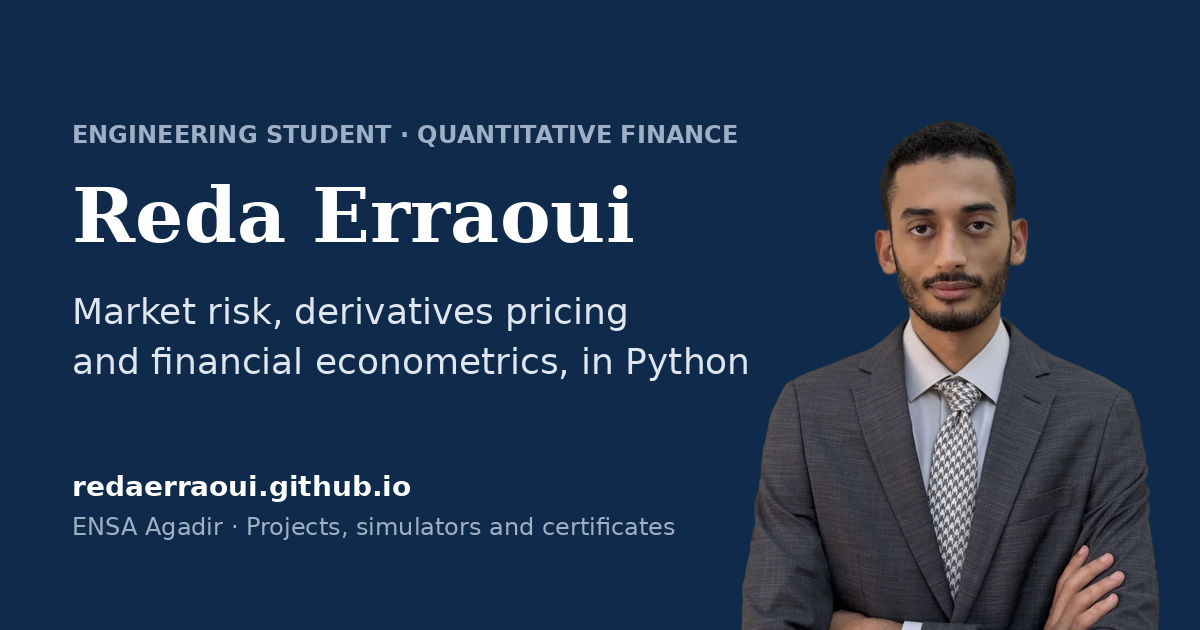
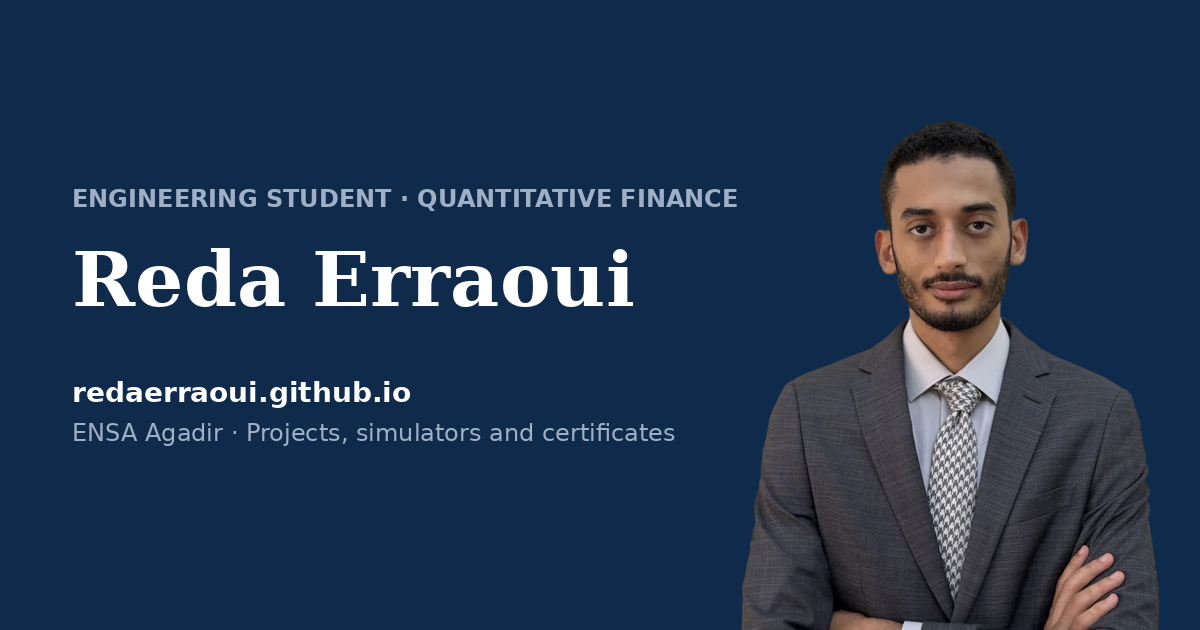
Retire la tagline de l'image OG (FR/EN) et passe le cache à v=3

Changed region(s): [[0.0617, 0.2714, 0.6167, 0.7238], [0.0617, 0.181, 0.6167, 0.2413], [0.0617, 0.754, 0.555, 0.8746]]

diff --git a/projets/arma-garch-var.html b/projets/arma-garch-var.html
@@ -15,7 +15,7 @@
 <meta property="og:title" content="Volatilité et Value-at-Risk de Managem par ARMA–GARCH · Reda Erraoui">
 <meta property="og:description" content="306 mois de cours : volatilité persistante (demi-vie d’environ 6 mois), effet de levier significatif, et une fuite d’information détectée dans la comparaison avec un réseau de neurones.">
 <meta property="og:url" content="https://redaerraoui.github.io/projets/arma-garch-var.html">
-<meta property="og:image" content="https://redaerraoui.github.io/assets/og-fr.png?v=2">
+<meta property="og:image" content="https://redaerraoui.github.io/assets/og-fr.png?v=3">
 <meta property="og:image:width" content="1200">
 <meta property="og:image:height" content="630">
 <meta property="og:locale" content="fr_FR">

diff --git a/projets/ipo-casablanca.html b/projets/ipo-casablanca.html
@@ -15,7 +15,7 @@
 <meta property="og:title" content="Performance des introductions en Bourse à Casablanca · Reda Erraoui">
 <meta property="og:description" content="9 introductions de 2020 à 2025 : surperformance de +31,5 % à 6 mois par rapport au MASI, liée au taux de sursouscription (r = 0,77), mais fragile sans la plus grosse opération.">
 <meta property="og:url" content="https://redaerraoui.github.io/projets/ipo-casablanca.html">
-<meta property="og:image" content="https://redaerraoui.github.io/assets/og-fr.png?v=2">
+<meta property="og:image" content="https://redaerraoui.github.io/assets/og-fr.png?v=3">
 <meta property="og:image:width" content="1200">
 <meta property="og:image:height" content="630">
 <meta property="og:locale" content="fr_FR">

diff --git a/simulateurs/stationnarite-managem.html b/simulateurs/stationnarite-managem.html
@@ -15,7 +15,7 @@
 <meta property="og:title" content="Simulateur · Reda Erraoui">
 <meta property="og:description" content="Portfolio de Reda Erraoui, élève ingénieur en finance quantitative : risque de marché, produits dérivés et économétrie financière en Python. Projets, simulateurs interactifs et certificats vérifiables.">
 <meta property="og:url" content="https://redaerraoui.github.io/simulateurs/stationnarite-managem.html">
-<meta property="og:image" content="https://redaerraoui.github.io/assets/og-fr.png?v=2">
+<meta property="og:image" content="https://redaerraoui.github.io/assets/og-fr.png?v=3">
 <meta property="og:image:width" content="1200">
 <meta property="og:image:height" content="630">
 <meta property="og:locale" content="fr_FR">

diff --git a/en/projects/arma-garch-var.html b/en/projects/arma-garch-var.html
@@ -15,7 +15,7 @@
 <meta property="og:title" content="Volatility and Value-at-Risk of Managem with ARMA–GARCH · Reda Erraoui">
 <meta property="og:description" content="306 months of prices: persistent volatility (half-life about 6 months), a significant leverage effect, and an information leak detected in the neural-network benchmark.">
 <meta property="og:url" content="https://redaerraoui.github.io/en/projects/arma-garch-var.html">
-<meta property="og:image" content="https://redaerraoui.github.io/assets/og-en.png?v=2">
+<meta property="og:image" content="https://redaerraoui.github.io/assets/og-en.png?v=3">
 <meta property="og:image:width" content="1200">
 <meta property="og:image:height" content="630">
 <meta property="og:locale" content="en_US">

diff --git a/simulateurs/option-pricing-lab.html b/simulateurs/option-pricing-lab.html
@@ -15,7 +15,7 @@
 <meta property="og:title" content="Simulateur · Reda Erraoui">
 <meta property="og:description" content="Portfolio de Reda Erraoui, élève ingénieur en finance quantitative : risque de marché, produits dérivés et économétrie financière en Python. Projets, simulateurs interactifs et certificats vérifiables.">
 <meta property="og:url" content="https://redaerraoui.github.io/simulateurs/option-pricing-lab.html">
-<meta property="og:image" content="https://redaerraoui.github.io/assets/og-fr.png?v=2">
+<meta property="og:image" content="https://redaerraoui.github.io/assets/og-fr.png?v=3">
 <meta property="og:image:width" content="1200">
 <meta property="og:image:height" content="630">
 <meta property="og:locale" content="fr_FR">

diff --git a/simulateurs/portefeuille-eep.html b/simulateurs/portefeuille-eep.html
@@ -15,7 +15,7 @@
 <meta property="og:title" content="Simulateur · Reda Erraoui">
 <meta property="og:description" content="Portfolio de Reda Erraoui, élève ingénieur en finance quantitative : risque de marché, produits dérivés et économétrie financière en Python. Projets, simulateurs interactifs et certificats vérifiables.">
 <meta property="og:url" content="https://redaerraoui.github.io/simulateurs/portefeuille-eep.html">
-<meta property="og:image" content="https://redaerraoui.github.io/assets/og-fr.png?v=2">
+<meta property="og:image" content="https://redaerraoui.github.io/assets/og-fr.png?v=3">
 <meta property="og:image:width" content="1200">
 <meta property="og:image:height" content="630">
 <meta property="og:locale" content="fr_FR">

diff --git a/simulateurs/monte-carlo-lsm.html b/simulateurs/monte-carlo-lsm.html
@@ -15,7 +15,7 @@
 <meta property="og:title" content="Simulateur · Reda Erraoui">
 <meta property="og:description" content="Portfolio de Reda Erraoui, élève ingénieur en finance quantitative : risque de marché, produits dérivés et économétrie financière en Python. Projets, simulateurs interactifs et certificats vérifiables.">
 <meta property="og:url" content="https://redaerraoui.github.io/simulateurs/monte-carlo-lsm.html">
-<meta property="og:image" content="https://redaerraoui.github.io/assets/og-fr.png?v=2">
+<meta property="og:image" content="https://redaerraoui.github.io/assets/og-fr.png?v=3">
 <meta property="og:image:width" content="1200">
 <meta property="og:image:height" content="630">
 <meta property="og:locale" content="fr_FR">

diff --git a/simulateurs/ipo-casablanca.html b/simulateurs/ipo-casablanca.html
@@ -15,7 +15,7 @@
 <meta property="og:title" content="Simulateur · Reda Erraoui">
 <meta property="og:description" content="Portfolio de Reda Erraoui, élève ingénieur en finance quantitative : risque de marché, produits dérivés et économétrie financière en Python. Projets, simulateurs interactifs et certificats vérifiables.">
 <meta property="og:url" content="https://redaerraoui.github.io/simulateurs/ipo-casablanca.html">
-<meta property="og:image" content="https://redaerraoui.github.io/assets/og-fr.png?v=2">
+<meta property="og:image" content="https://redaerraoui.github.io/assets/og-fr.png?v=3">
 <meta property="og:image:width" content="1200">
 <meta property="og:image:height" content="630">
 <meta property="og:locale" content="fr_FR">

diff --git a/simulateurs/prix-billets.html b/simulateurs/prix-billets.html
@@ -15,7 +15,7 @@
 <meta property="og:title" content="Simulateur · Reda Erraoui">
 <meta property="og:description" content="Portfolio de Reda Erraoui, élève ingénieur en finance quantitative : risque de marché, produits dérivés et économétrie financière en Python. Projets, simulateurs interactifs et certificats vérifiables.">
 <meta property="og:url" content="https://redaerraoui.github.io/simulateurs/prix-billets.html">
-<meta property="og:image" content="https://redaerraoui.github.io/assets/og-fr.png?v=2">
+<meta property="og:image" content="https://redaerraoui.github.io/assets/og-fr.png?v=3">
 <meta property="og:image:width" content="1200">
 <meta property="og:image:height" content="630">
 <meta property="og:locale" content="fr_FR">

diff --git a/simulateurs/arma-garch.html b/simulateurs/arma-garch.html
@@ -15,7 +15,7 @@
 <meta property="og:title" content="Simulateur · Reda Erraoui">
 <meta property="og:description" content="Portfolio de Reda Erraoui, élève ingénieur en finance quantitative : risque de marché, produits dérivés et économétrie financière en Python. Projets, simulateurs interactifs et certificats vérifiables.">
 <meta property="og:url" content="https://redaerraoui.github.io/simulateurs/arma-garch.html">
-<meta property="og:image" content="https://redaerraoui.github.io/assets/og-fr.png?v=2">
+<meta property="og:image" content="https://redaerraoui.github.io/assets/og-fr.png?v=3">
 <meta property="og:image:width" content="1200">
 <meta property="og:image:height" content="630">
 <meta property="og:locale" content="fr_FR">

diff --git a/simulateurs/clustering.html b/simulateurs/clustering.html
@@ -15,7 +15,7 @@
 <meta property="og:title" content="Simulateur · Reda Erraoui">
 <meta property="og:description" content="Portfolio de Reda Erraoui, élève ingénieur en finance quantitative : risque de marché, produits dérivés et économétrie financière en Python. Projets, simulateurs interactifs et certificats vérifiables.">
 <meta property="og:url" content="https://redaerraoui.github.io/simulateurs/clustering.html">
-<meta property="og:image" content="https://redaerraoui.github.io/assets/og-fr.png?v=2">
+<meta property="og:image" content="https://redaerraoui.github.io/assets/og-fr.png?v=3">
 <meta property="og:image:width" content="1200">
 <meta property="og:image:height" content="630">
 <meta property="og:locale" content="fr_FR">

diff --git a/projets/monte-carlo-lsm.html b/projets/monte-carlo-lsm.html
@@ -15,7 +15,7 @@
 <meta property="og:title" content="Options américaines par Monte-Carlo et Longstaff-Schwartz · Reda Erraoui">
 <meta property="og:description" content="Put américain valorisé à 4,46 contre 4,478 dans l’article de référence ; variance de l’estimateur divisée par 6,8 grâce à une variable de contrôle.">
 <meta property="og:url" content="https://redaerraoui.github.io/projets/monte-carlo-lsm.html">
-<meta property="og:image" content="https://redaerraoui.github.io/assets/og-fr.png?v=2">
+<meta property="og:image" content="https://redaerraoui.github.io/assets/og-fr.png?v=3">
 <meta property="og:image:width" content="1200">
 <meta property="og:image:height" content="630">
 <meta property="og:locale" content="fr_FR">
